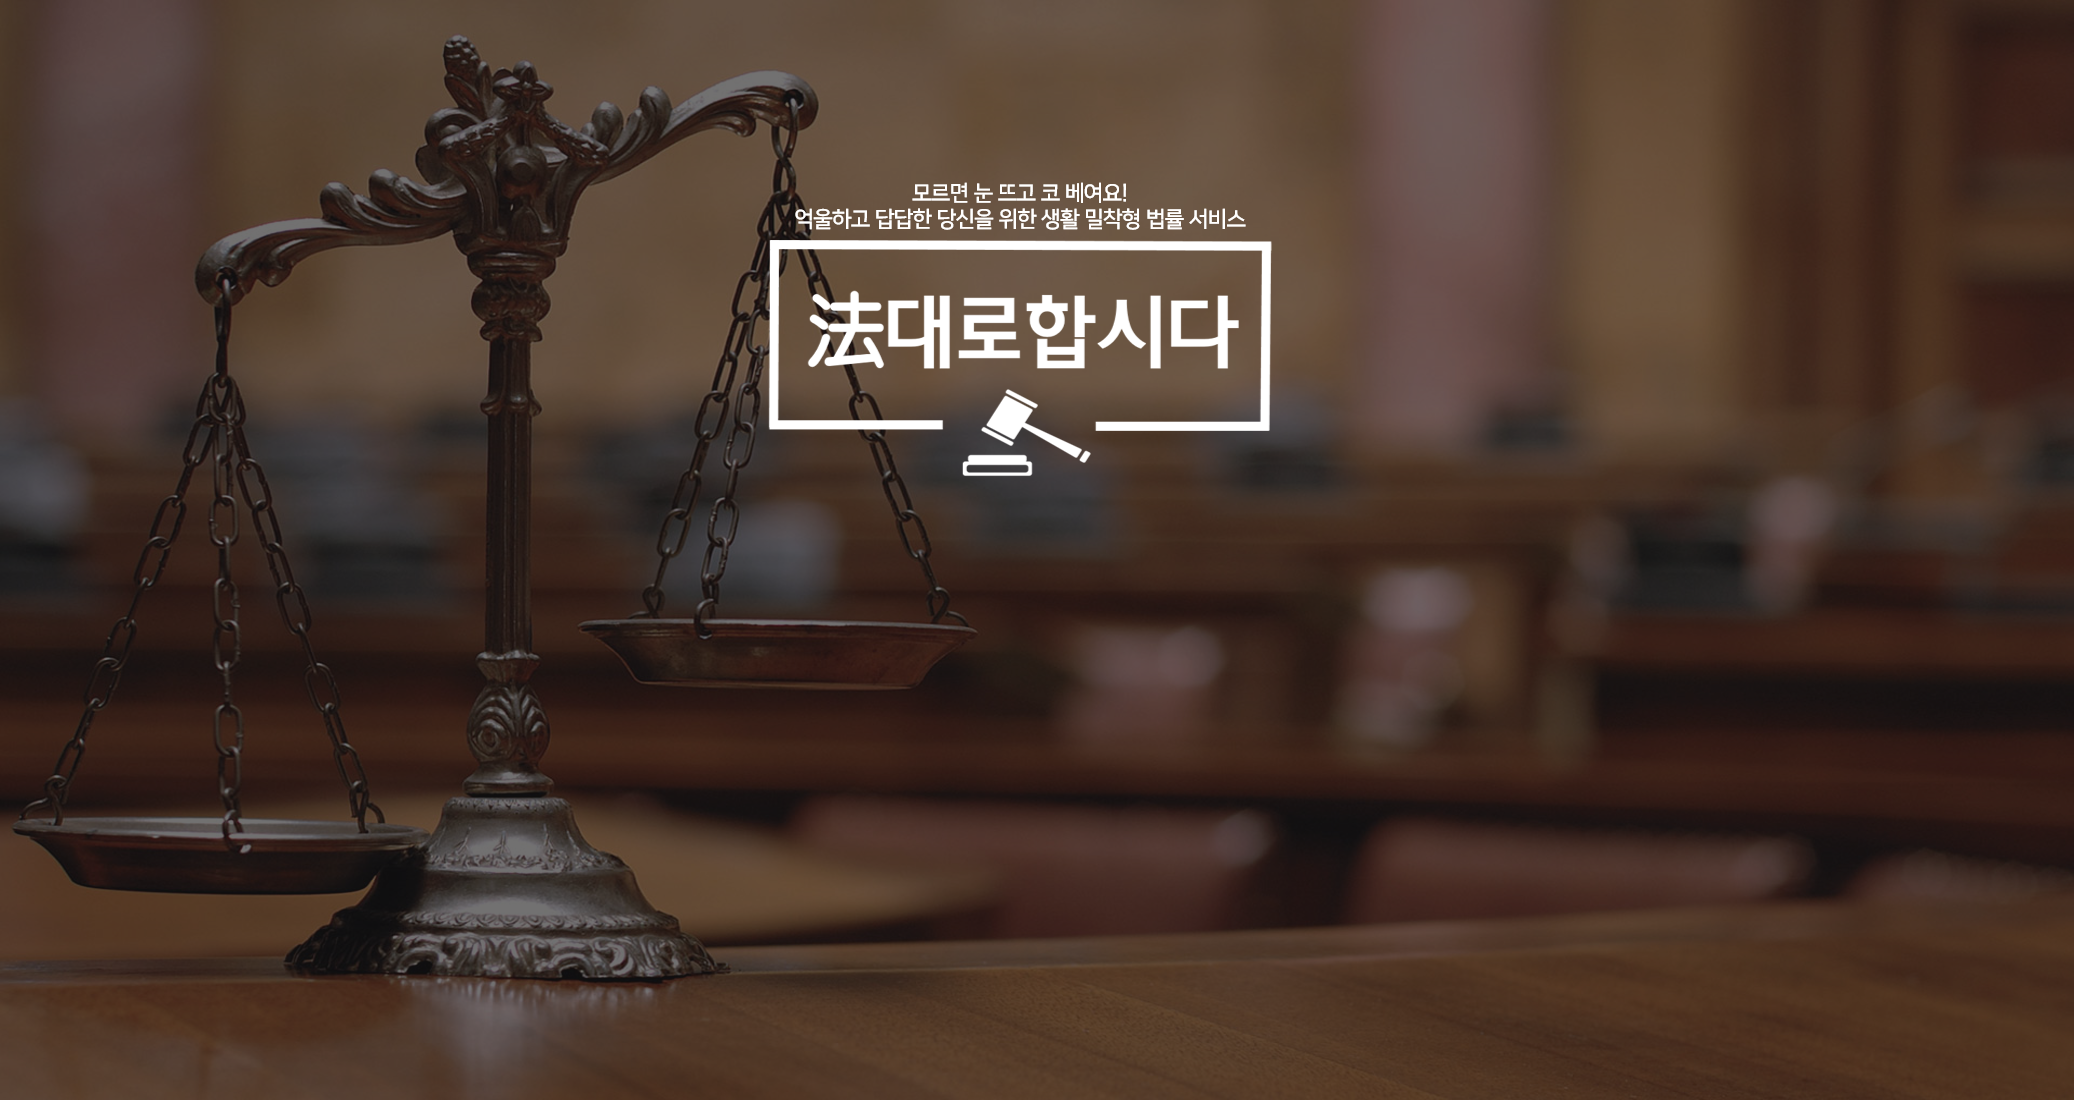
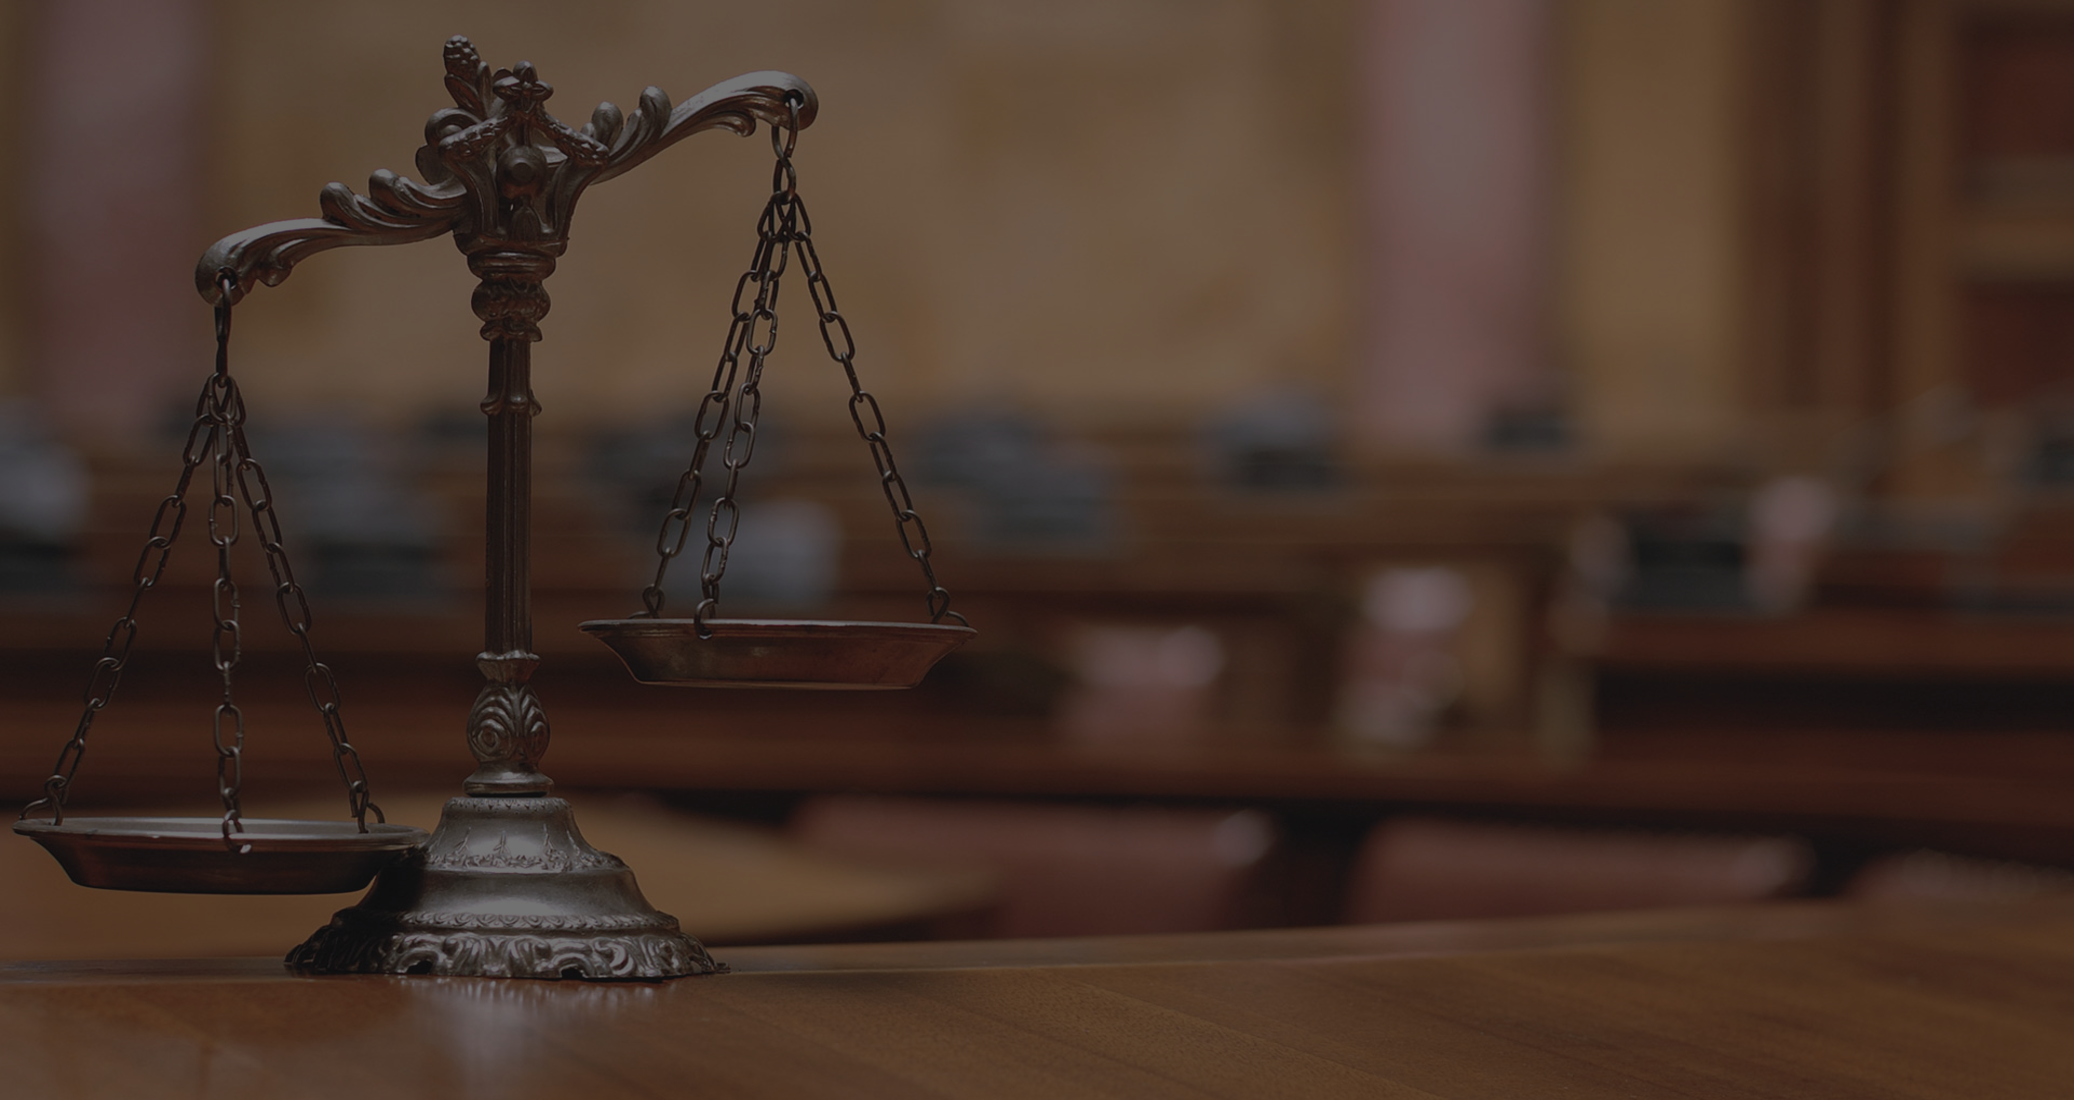
Update S04P13D103-3 vue 파일 정리 및 css 수정

Changed region(s): [[0.3703, 0.1545, 0.6172, 0.4327]]

diff --git a/frontend/src/views/Index.vue b/frontend/src/views/Index.vue
@@ -1,10 +1,12 @@
 <template>
   <div class="home">
     <full-page :options="options">
-      <div class="section pb-0" :style="image_1" data-width="1200" data-height="730">
-        <form @submit="detailSearch()" autocomplete="off" background-color="white" style="padding-top:50px">
-          <fieldset id="searchbar" class="text-center">
-            <v-text-field id="searchWordMain" clearable color="white" height="50px" v-model="query" style="margin-top:50px; backgroundcolor: white; width: 1500px; float: left;">
+      <div class="section pb-0  " :style="image_1" data-width="1200" data-height="730">
+        <img class="logo" :src="logo" alt="logo" />
+
+        <form class="searchForm " @submit="detailSearch()" autocomplete="off" background-color="white" style="position: inherit">
+          <fieldset id="searchbar" class="text-center" style="margin-top: 400px;">
+            <v-text-field id="searchWordMain" clearable color="white" height="50px" v-model="query" style="backgroundcolor: white; width: 70%; float: left;">
               <template v-slot:label>
                 <strong>검색어</strong>
                 를입력해주세요!
@@ -17,27 +19,37 @@
               검색
             </v-btn>
           </fieldset>
+          <div class="text-center" style="position: inherit">
+            <v-card style="text-align:center; margin: 0 auto;" color="rgba(255, 255, 255, 0.1)" width="50%" height="200px">
+              <search-rank class="text-center"></search-rank>
+            </v-card>
+          </div>
         </form>
-        <div class="text-center" style="margin-left:30px; margin-top:30px">
-          <v-card style="text-align:center; margin: 0 auto;" color="rgba(255, 255, 255, 0.1)" width="50%" height="200px">
-            <search-rank class="text-center"></search-rank>
-          </v-card>
-        </div>
+        <!-- <div class="text-center" style="margin-left:30px; margin-top:30px; position: absolute"> -->
       </div>
 
-      <div id="section1" class="section pb-0" :style="image_2" data-width="1200" data-height="730">
+      <div class="section pb-0" :style="image_2" data-width="1200" data-height="730">
         <div class="md-layout ">
-          <div class="md-layout-item md-medium-size-100 md-small-size-100 ">
+          <div class="md-layout-item md-medium-size-50 md-small-size-100">
             <v-card elevation="7" color="rgba(255, 255, 255, 0.1)" class="custom-card text-center">
               <span class="title-solid text-center">실시간 법원/검찰 뉴스</span>
-              <law-rss-news :key="componentKey"></law-rss-news>
+              <br />
               <button id="f5" @click="forceRerender">새로고침</button>
+              <law-rss-news :key="componentKey"></law-rss-news>
+            </v-card>
+          </div>
+          <div class="md-layout-item md-medium-size-50 md-small-size-100">
+            <v-card elevation="7" color="rgba(255, 255, 255, 0.1)" class="custom-card text-center">
+              <span class="title-solid text-center">실시간 법원/검찰 뉴스</span>
+              <br />
+              <button id="f5" @click="forceRerender">새로고침</button>
+              <law-rss-news :key="componentKey"></law-rss-news>
             </v-card>
           </div>
         </div>
       </div>
 
-      <div id="section1" class="section pb-0" :style="image_3" data-width="1200" data-height="730">
+      <div class="section pb-0" :style="image_3" data-width="1200" data-height="730">
         <div class="row" style="padding-top: 100px">
           <li class="col-2">
             <input @click="moveBoard" class="button" value="자유게시판" readonly onfocus="this.blur();" />
@@ -105,6 +117,10 @@ export default {
     image3: {
       type: String,
       default: require('@/assets/img/mainbg3.jpg'),
+    },
+    logo: {
+      type: String,
+      default: require('@/assets/img/main1-logo.png'),
     },
   },
   destroyed() {
@@ -176,6 +192,25 @@ input#searchWordMain {
 }
 </style>
 <style scoped>
+@media (max-width: 600px) {
+  .searchForm {
+    margin-top: -400px;
+    position: unset;
+    width: 100%;
+  }
+  #searchWordMain {
+    width: auto;
+    float: none;
+  }
+}
+.logo {
+  position: absolute;
+  right: 30%;
+  top: 10%;
+  width: 35%;
+  z-index: 9;
+}
+
 .kor {
   font-family: 'Nanum Gothic', sans-serif;
 }
@@ -189,14 +224,12 @@ input#searchWordMain {
 .home > div:nth-child(3) {
   background: green;
 }
-#section1 {
-  padding-left: 7rem;
-}
 .section {
   width: 100vw;
   height: 100vh;
   z-index: -1;
   padding: 0px;
+  padding-left: 7rem;
 }
 #img2 {
   width: 100%;

diff --git a/frontend/src/layout/MainNavbar.vue b/frontend/src/layout/MainNavbar.vue
@@ -1,7 +1,6 @@
 <template>
   <md-toolbar id="toolbar" md-elevation="0" class="md-transparent md-absolute" :class="extraNavClasses" :color-on-scroll="colorOnScroll">
     <div class="md-toolbar-row md-collapse-lateral">
-      <!-- <div class="md-toolbar-section-start" style="margin-left: -200px;"> -->
       <div class="md-toolbar-section-start">
         <h3 class="md-title">
           <router-link to="/" class="md-title kor">
@@ -27,26 +26,26 @@
                     <drop-down direction="down">
                       <md-button slot="title" class="md-button md-button-link md-white md-simple dropdown-toggle" data-toggle="dropdown">
                         <i class="material-icons">dashboard</i>
-                        <p>추가정보</p>
+                        <p>추가 서비스</p>
                       </md-button>
                       <ul class="dropdown-menu dropdown-with-icons">
                         <li>
                           <router-link to="/lawtest">
-                            <i class="material-icons">store</i>
+                            <i class="material-icons">quiz</i>
                             법상식테스트
                           </router-link>
                         </li>
                         <li>
-                          <router-link to="/">
-                            <i class="material-icons">masks</i>
-                            ssafy
+                          <router-link to="/controversylist">
+                            <i class="material-icons">supervisor_account</i>
+                            찬반토론
                           </router-link>
                         </li>
                         <li>
-                          <router-link to="/">
-                            <i class="material-icons">local_hospital</i>
-                            ssafy
-                          </router-link>
+                          <a @click="moveScourtExp">
+                            <i class="material-icons">gavel</i>
+                            모의판사체험
+                          </a>
                         </li>
                       </ul>
                     </drop-down>
@@ -99,6 +98,7 @@
                   </div>
                 </li>
               </template>
+
               <!-- 비로그인 -->
               <template v-else>
                 <!-- 로그인 부분 -->
@@ -178,6 +178,9 @@ export default {
     },
   },
   methods: {
+    moveScourtExp() {
+      location.href = 'https://i4d103.p.ssafy.io/exp/main.html';
+    },
     logoutUser() {
       this.$store.commit('clearEmail');
       this.$store.commit('clearToken');

diff --git a/frontend/src/views/components/SearchRank.vue b/frontend/src/views/components/SearchRank.vue
@@ -32,8 +32,8 @@
     <br />
     <div class="text-center" style=" margin-top:30px; display:inline-flex;">
       <v-carousel style="display:inline-block;" hide-delimiters cycle interval="3000" class="rank_outter" vertical height="200px" :prev-icon="false" :next-icon="false">
-        <v-carousel-item class="rank " v-for="item in items" :key="item.rank">
-          <v-card class="text-center" elevation="2" color="rgba(255, 255, 255, 0.1)" width="500px">
+        <v-carousel-item class="rank  " v-for="item in items" :key="item.rank">
+          <v-card class="text-center" elevation="2" color="rgba(255, 255, 255, 0.1)" width="200px">
             <a @click="moveSearch(item.word)" class="rank">{{ item.rank }}. {{ item.word }}</a>
             &nbsp;
           </v-card>

diff --git a/frontend/src/router.js b/frontend/src/router.js
@@ -16,9 +16,9 @@ import WebrtcView from './views/WebRtcView.vue';
 import DictTest from './views/DictTest.vue';
 
 import Board from './views/Board.vue';
-import BoardDetail from './views/components/BoardDetail.vue';
-import BoardWrite from './views/components/BoardWrite.vue';
-import BoardUpdate from './views/components/BoardUpdate.vue';
+import BoardDetail from './views/components/board/BoardDetail.vue';
+import BoardWrite from './views/components/board/BoardWrite.vue';
+import BoardUpdate from './views/components/board/BoardUpdate.vue';
 
 import ProfileLawyer from './views/ProfileLawyer.vue';
 import ProfileLawyerUpdate from './views/components/ProfileLawyerUpdate.vue';

diff --git a/frontend/src/views/components/LawRssNews.vue b/frontend/src/views/components/LawRssNews.vue
@@ -4,7 +4,7 @@
     <div v-if="loadCheck">
       <br />
 
-      <md-button class="md-info" disabled id="rss_time">{{ refresh_time }}</md-button>
+      <md-button class="md-raised" disabled id="rss_time">{{ refresh_time }}</md-button>
       <br />
       <div class="list-type">
         <ol id="olid" style="list-style: none;">
